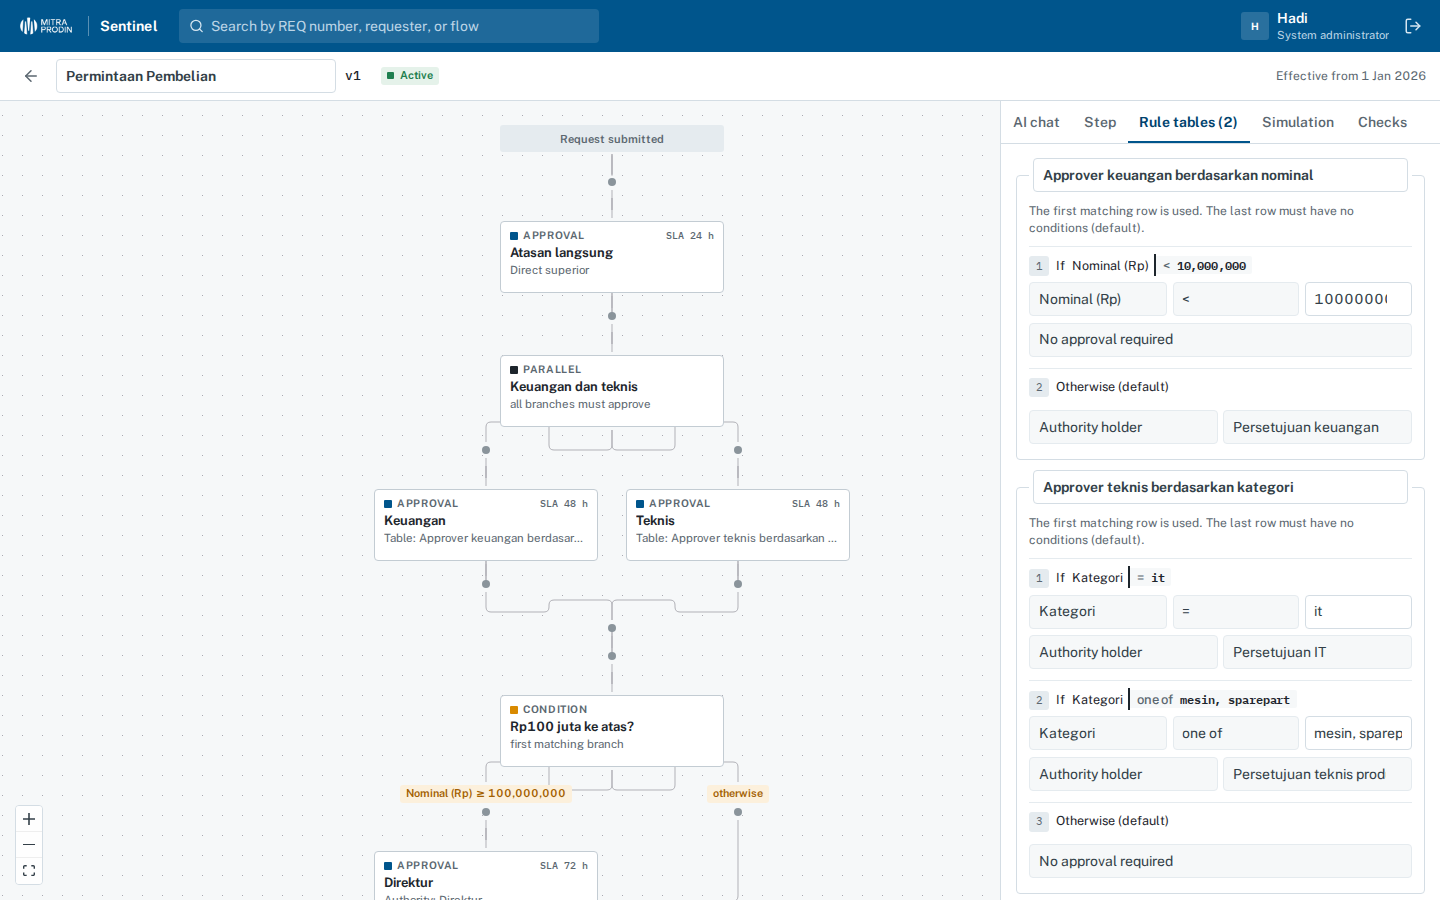
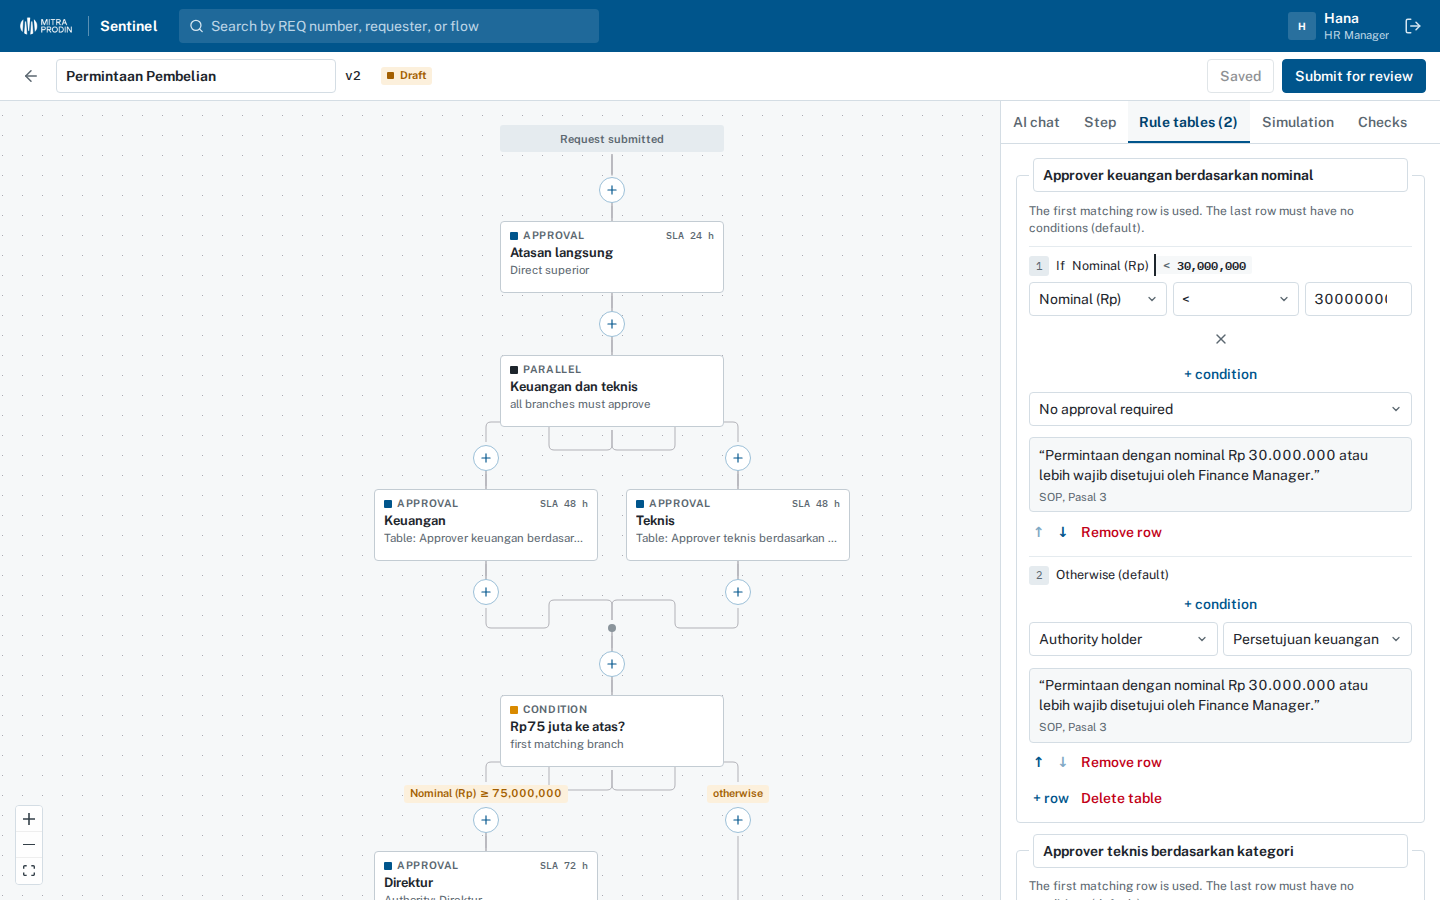
Add the reflection, fit the PRD on one printed page, and refresh README
The reflection is the product owner's, written from an interview. The PRD now
prints on one A4 page. README lists the demo accounts as they are on the live
app after the reorganization test (Andi approves Budi's requests), shows new
screenshots including the AI summary and anomaly flags, and the test counts
are 131. The demo organization's acting term now ends at local midnight, so
the tree and the finding show the same date.

Claude-Session: https://claude.ai/code/session_01PvQFwNfRLnz4Qb85JDenrC

diff --git a/docs/PRD.md b/docs/PRD.md
@@ -1,56 +1,52 @@
-# Sentinel: Product Requirements Document (one page)
+# Sentinel: Product Requirements Document
 
-Six components: problem, target users, goals and metrics, features with acceptance criteria, out of scope, risks.
-Evidence is in [validation.md](validation.md); technical detail and the test for each criterion are in [spec.md](spec.md).
+Six components. Evidence: [validation.md](validation.md); tests per criterion: [spec.md](spec.md).
 
 ## 1. Problem
-Every internal system (HR application, ERP, product development, chat and email) carries its own approval logic.
-People are unsure where to file and who approves, chains are long, each reorganization is a developer task repeated in
-every system, and nobody can reconstruct who approved what under which rule. **Angle:** one place for approval rules,
-owned by process owners, drafted by AI from the SOP with checked quotes, with approvers computed from the organization.
+Every internal system (HR, ERP, product development, chat and email) has its own approval logic: people do not know
+who approves, chains are long, and each reorganization is developer work repeated in every system. **Angle:** one
+place for approval rules, owned by process owners, drafted by AI from the SOP, approvers computed from the organization.
 
 ## 2. Target users
 | User | Job to be done |
 |---|---|
-| Requester (office employee) | File a request and always see where it is and who it waits on |
-| Approver (unit head, finance, IT, HR) | Decide a queue in seconds, often from a phone, with enough context |
-| Process owner (owner of an SOP) | Turn the SOP into a working flow and change it without a developer |
-| System administrator (IT) | Set up the organization, owners and integrations; first-phase user |
+| Requester | File a request and see who it waits on |
+| Approver | Decide a queue quickly, often on a phone, with context |
+| Process owner | Turn the SOP into a flow and change it without a developer |
+| Administrator (IT) | Set up organization, owners and integrations |
 
 ## 3. Goals and success metrics
-| Goal | Metric | Target |
-|---|---|---|
-| Decisions on time | Approval tasks decided within their SLA | ≥ 90% |
-| No ambiguous approver | Requests whose approver cannot be resolved | 0 in flows that pass the coverage test |
-| Rules owned by the business | Flow changes made without a code change | 100% |
-| Traceable decisions | Decisions with actor, time, flow version and assignment reason | 100% |
-| AI saves drafting time | SOP text to a valid draft flow | < 5 minutes |
+| Goal | Metric and target |
+|---|---|
+| Decisions on time | ≥ 90% of tasks decided within SLA |
+| No ambiguous approver | 0 unresolved approvers in flows that pass the coverage test |
+| Rules owned by the business | 100% of flow changes made without code |
+| Traceable decisions | 100% with actor, time, flow version and reason |
+| AI saves drafting time | SOP to valid draft in < 5 minutes |
 
 ## 4. Features and acceptance criteria
 | # | Feature | Acceptance criteria (testable) |
 |---|---|---|
-| F1 | Submit and track | Valid data returns a request ID and opens the first task; invalid fields return HTTP 400; the list shows who each request waits on |
-| F2 | Approval inbox | Shows only tasks assigned or delegated to the user, by due date; bulk approve records one decision per task |
-| F3 | Separation of duties | A requester never decides their own request, even through delegation (HTTP 403); a draft's editor cannot activate it |
-| F4 | **AI flow drafter** | From SOP text, returns a draft that passes validation with a quote per rule; a quote not found in the SOP is marked unverified; asks when the SOP is ambiguous; cannot activate |
-| F5 | Validation and simulation | A path that can end without a human approval cannot be activated; simulation shows each step's approver without storing anything |
-| F6 | Approvers from the organization | Superior = head of the requester's unit; a vacant head escalates upward with the reason stated; each task stores its reason |
-| F7 | Organization changes | A change applies only after a second owner approves; open tasks move to the new head with an audit event; the coverage test lists dead-end paths |
-| F8 | SLA | Past due: one reminder; past twice the SLA: the approver's superior is added, never the requester |
-| F9 | Audit trail | Audit rows and active flow versions cannot be changed or deleted (database triggers) |
-| F10 | MCP server | After OAuth, every feature is callable as the signed-in user, with the same 403s as the web app |
-| F11 | Integration | A valid API key files a request that follows the active flow; the same external reference creates one request; outcomes go out as signed webhooks, retried on failure; a revoked key gets HTTP 401 |
-| F12 | **AI request briefing** | A 2–4 sentence summary appears after filing without waiting; never recommends a decision; on AI failure the request is unaffected and the summary is retried |
-| F13 | **Anomaly flags** | Flags a purchase split below a limit read from the flow, an amount > 3× the usual (≥ 5 earlier requests), or a duplicate within 7 days; shown with an AI explanation to approvers only; never changes routing |
+| F1 | Submit and track | Valid data opens the first task; invalid data gets HTTP 400 |
+| F2 | Inbox | Only own and delegated tasks, by due date; bulk approve = one decision per task |
+| F3 | Separation of duties | Requester never decides own request (403); editor cannot activate own draft |
+| F4 | **AI flow drafter** | SOP → valid draft, a checked quote per rule; asks when unclear; cannot activate |
+| F5 | Validation, simulation | No path may end without human approval; simulation stores nothing |
+| F6 | Approvers from org tree | Superior = unit head; vacancy escalates with stated reason |
+| F7 | Organization changes | Second-owner approval; open tasks move to the new head, audited |
+| F8 | SLA | Overdue: one reminder; 2× SLA: superior added, never the requester |
+| F9 | Audit trail | Audit rows and active versions cannot change (DB triggers) |
+| F10 | MCP server | After OAuth, same permissions and 403s as the web app |
+| F11 | Integration API | Key files into the active flow; same reference = one request; signed, retried webhook; revoked = 401 |
+| F12 | **AI briefing** | 2–4 sentences after filing; no recommendation; on failure the request is intact and it retries |
+| F13 | **Anomaly flags** | Split below a flow limit, > 3× usual, 7-day duplicate; approvers only; routing unchanged |
 
 ## 5. Out of scope (v1)
-Payments, payroll and leave balances, e-signature, single sign-on, native mobile apps, automatic sync from the HR
-system, free-form formulas in rules.
+Payments, payroll, e-signature, single sign-on, native apps, automatic HR sync, free-form rule formulas.
 
 ## 6. Risks and assumptions
 | Risk or assumption | Mitigation |
 |---|---|
-| The AI drafts a rule the SOP does not say | Machine-checked quotes, human review, activation by a second person |
-| Organization data is wrong, or nobody owns it | Structure findings, coverage test, two organization owners |
-| Process owners will not maintain flows themselves (assumption) | Chat drafting and simulation; tested in the pilot in validation.md |
-| AI cost on a public test URL | All calls go through AI Gateway with a spend limit |
+| AI drafts a rule the SOP does not say | Checked quotes, human review, second-person activation |
+| Organization data wrong or unowned | Coverage test, structure findings, two organization owners |
+| Process owners will not maintain flows (assumption) | Chat drafting and simulation; tested in the pilot |

diff --git a/docs/reflection.md b/docs/reflection.md
@@ -1,0 +1,51 @@
+# Reflection: building Sentinel
+
+## What I built and why
+Sentinel is an approval-workflow application for my company, a mid-size export manufacturer. Every internal system we
+run, from the HR application to the ERP to our product-development application, carries its own approval logic. People
+are unsure where to file a request and who will approve it, chains are long, and each reorganization means a developer
+changing approvers system by system. Sentinel puts the approval rules in one place: approvers are computed from a
+maintained organization tree, flows are versioned and owned by process owners, and other systems connect through an
+API and signed webhooks instead of carrying their own rules. It has three AI capabilities: a drafter that turns an SOP
+into a flow with checked quotes, a briefing for approvers, and anomaly flags explained in plain words.
+
+## What I learned
+**Validation has to start from the real problem.** My first validation run scored Sentinel like a startup, with market
+size and competitors. It missed the point. Once I measured approvals across all our systems and was interviewed about
+how approvals actually go wrong, the real gap became clear: the same logic repeated in every application. That changed
+what I built next, including the inbound API and the outbound webhooks.
+
+**AI speeds things up, but everything it produces has to be verified.** AI wrote most of the code, tests and
+documents, and the automated tests passed. Running the application in a real browser still found defects they missed:
+an unticked checkbox that blocked every domestic business trip, a model setting that the live AI rejected, webhooks
+blocked by the platform, and a coverage check that reported problems that could not happen. Each was fixed and
+retested.
+
+## What was hard
+**An organization structure that keeps changing.** Acting heads, vacant positions and temporary reporting lines are
+normal for us, and our existing approver data reflects years of manual changes. I chose not to copy those approvers,
+and to model the organization with owners, a second reviewer for every change, and a coverage test that shows whose
+approval path would dead-end.
+
+**Keeping the scope realistic.** There were many good ideas: master data, more integrations, an MCP server. I had to
+keep asking what the minimum was that solved the problem, and leave the rest for later.
+
+## How I worked with AI
+I directed and the AI did the work. I decided the problem, the business rules and the limits, for example that the
+AI may only draft and never activate or decide, and that a division head's long leave goes to the Director and then
+HR. The AI wrote the code, tests and documents, and I reviewed the results and corrected the direction when it went
+wrong, such as the first validation framing.
+
+## Feedback from users
+Colleagues on the IT team tried Sentinel. Their main feedback was that it is much clearer who approves a request and
+why, and that the AI is very helpful. I have not made changes from that feedback yet; testing with requesters,
+approvers and process owners outside IT is the next step.
+
+## What I am proud of, and what I would do differently
+I am most proud of having one place for approval rules: another system only calls the API, and the rules no longer
+live in each application. If I started again, I would begin with one pilot flow end to end, including the
+integration, before building the rest.
+
+## Next version
+- A real pilot with business trips, legal tickets and ERP approvals, measured against the pass marks set in the validation.
+- Master data: approval limits as parameters, and reference lists such as items with their purchase price.

diff --git a/README.md b/README.md
@@ -13,13 +13,15 @@ people decide.
 
 | Demo account (password `demo1234`) | Role |
 |---|---|
-| `budi@contoh.test` | Requester |
-| `maya@contoh.test` | Approver (unit head) |
-| `fajar@contoh.test` | Approver (finance authority) |
+| `budi@contoh.test` | Requester (Production Line) |
+| `andi@contoh.test` | Approver: head of Production Line, Budi's superior |
+| `fajar@contoh.test` | Approver: finance authority |
 | `hana@contoh.test` | Process owner and organization owner |
-| `hadi@contoh.test` | System administrator (can do everything) |
+| `hadi@contoh.test` | System administrator (can do everything, including Integrations) |
 
-The demo runs on sample data. Demo flow and step names are in Indonesian because they are user-entered data.
+The live demo runs on a fictional 25-person organization (four levels, an acting head, a vacant head); the structure
+is in `apps/api/scripts/demo/`. No real employee data is used. Flow, step and unit names are in Indonesian because
+they are data entered by users; the interface is in English.
 
 ![Approval inbox with SLA tolerance bands](docs/screenshots/inbox.png)
 
@@ -43,8 +45,9 @@ The demo runs on sample data. Demo flow and step names are in Indonesian because
 - **MCP server.** Every feature is also available to AI assistants at `/mcp` through OAuth, with exactly the
   signed-in user's permissions.
 
-![Organization tree with structural findings](docs/screenshots/organization.png)
-![Flow editor with rule tables](docs/screenshots/flow-editor.png)
+![AI summary and anomaly flags on a request, as the approver sees it](docs/screenshots/ai-briefing-and-flags.png)
+![Flow editor: the AI drafter's chat and rule tables with checked SOP quotes](docs/screenshots/flow-editor.png)
+![Organization tree with an acting head and structural findings](docs/screenshots/organization.png)
 
 ## Documentation
 | Document | Contents |
@@ -79,7 +82,7 @@ npm run dev          # http://localhost:8787
 
 ```bash
 npm run typecheck    # TypeScript, all packages
-npm test             # 130 unit and API tests
+npm test             # 131 unit and API tests
 npm run build        # production build of the web app
 ```
 

diff --git a/docs/spec.md b/docs/spec.md
@@ -141,7 +141,7 @@ Rule evaluation has a parity test: over 40,000 combinations of operators and val
 reference semantics (`rules.test.ts`).
 
 ## 6. Test and deployment plan
-- `npm run typecheck`, `npm test` (130 tests), and `npm run build` must pass locally and in CI.
+- `npm run typecheck`, `npm test` (131 tests), and `npm run build` must pass locally and in CI.
 - Before release, scripted scenario tests run in a real browser against the live test environment, one recorded video
   per group: routing and controls, organization changes, AI features, and integration (66 checks on 21 November 2026;
   every failure was fixed and retested).

diff --git a/docs/validation.md b/docs/validation.md
@@ -150,7 +150,7 @@ fast and may be better left where it is.
 
 **Why us**
 - The same IT team holds the source code of the in-house applications that have to be connected.
-- The application exists, is deployed, and has 130 automated tests and a recorded browser scenario test.
+- The application exists, is deployed, and has 131 automated tests and a recorded browser scenario test.
 - The team has read access to the data that shows where approvals are slow.
 
 **Weak points:** one developer, part time; management knows about the initiative but has not formally mandated it.
